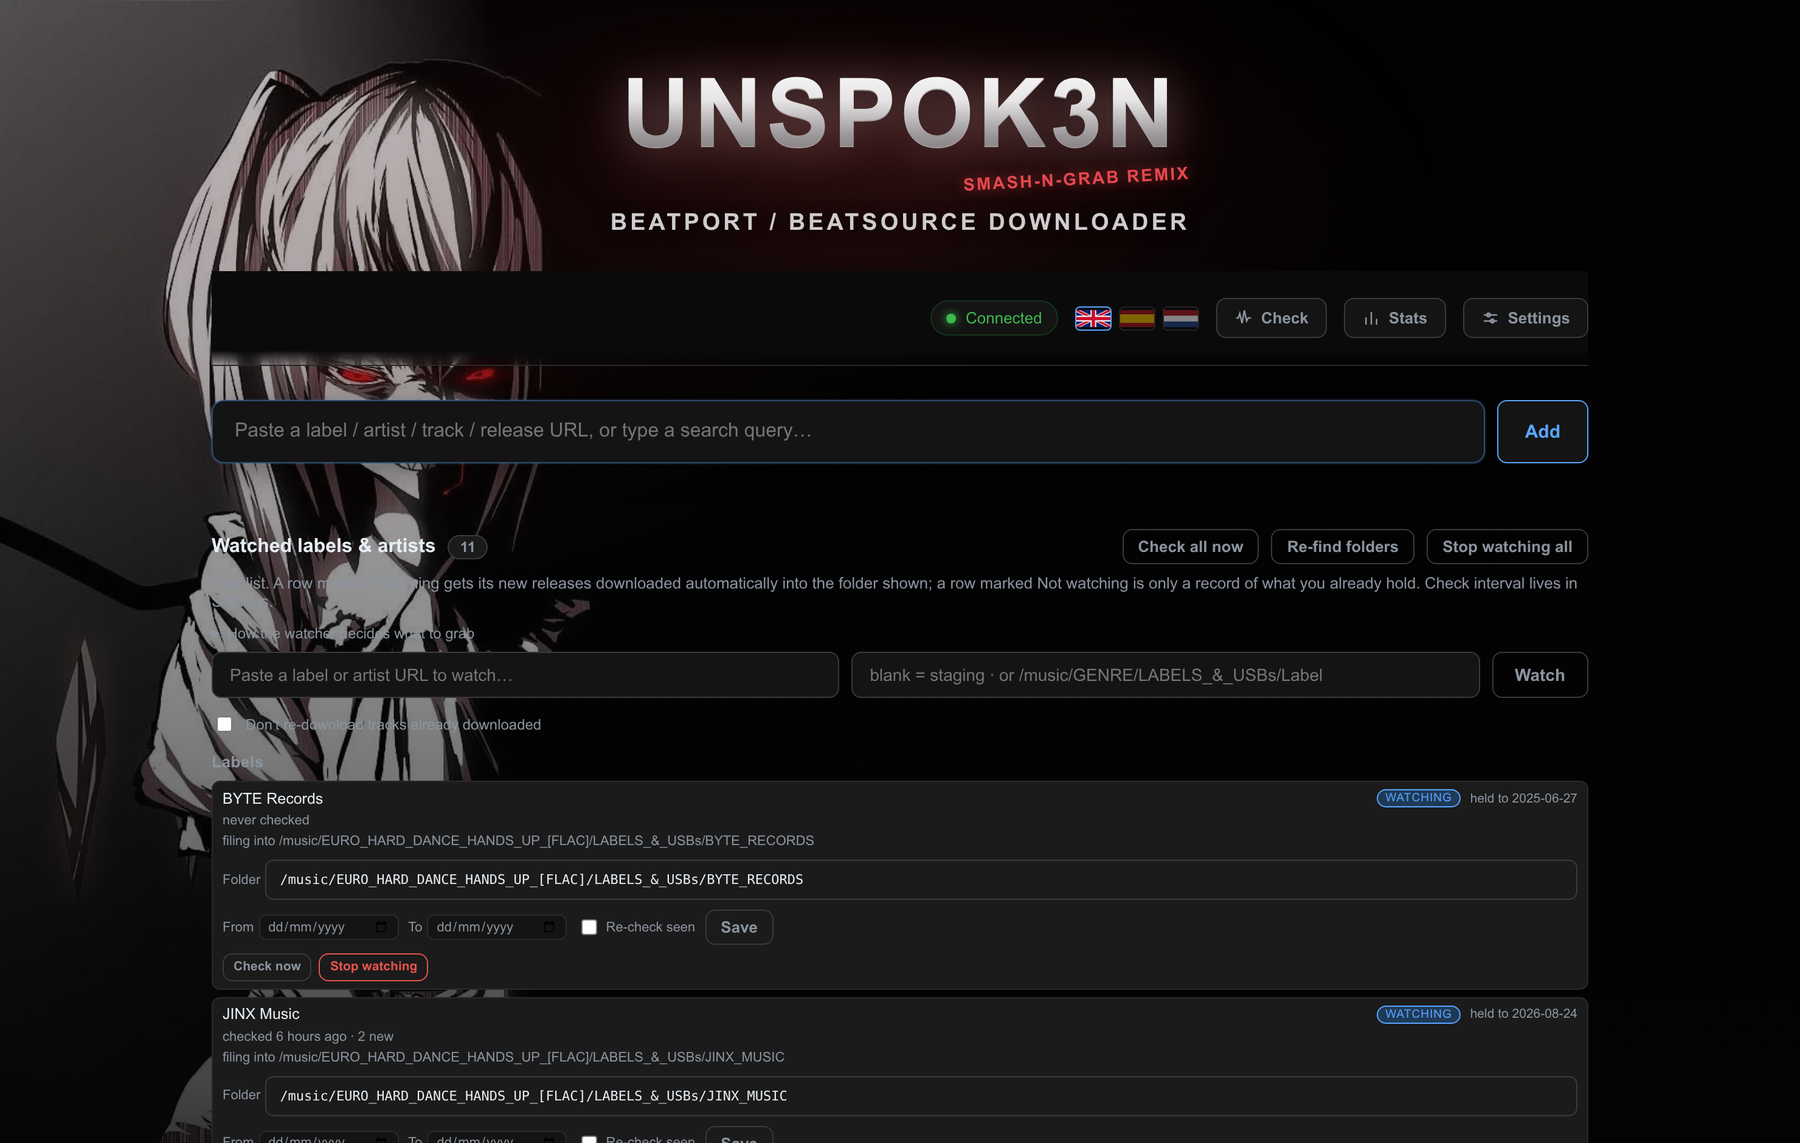
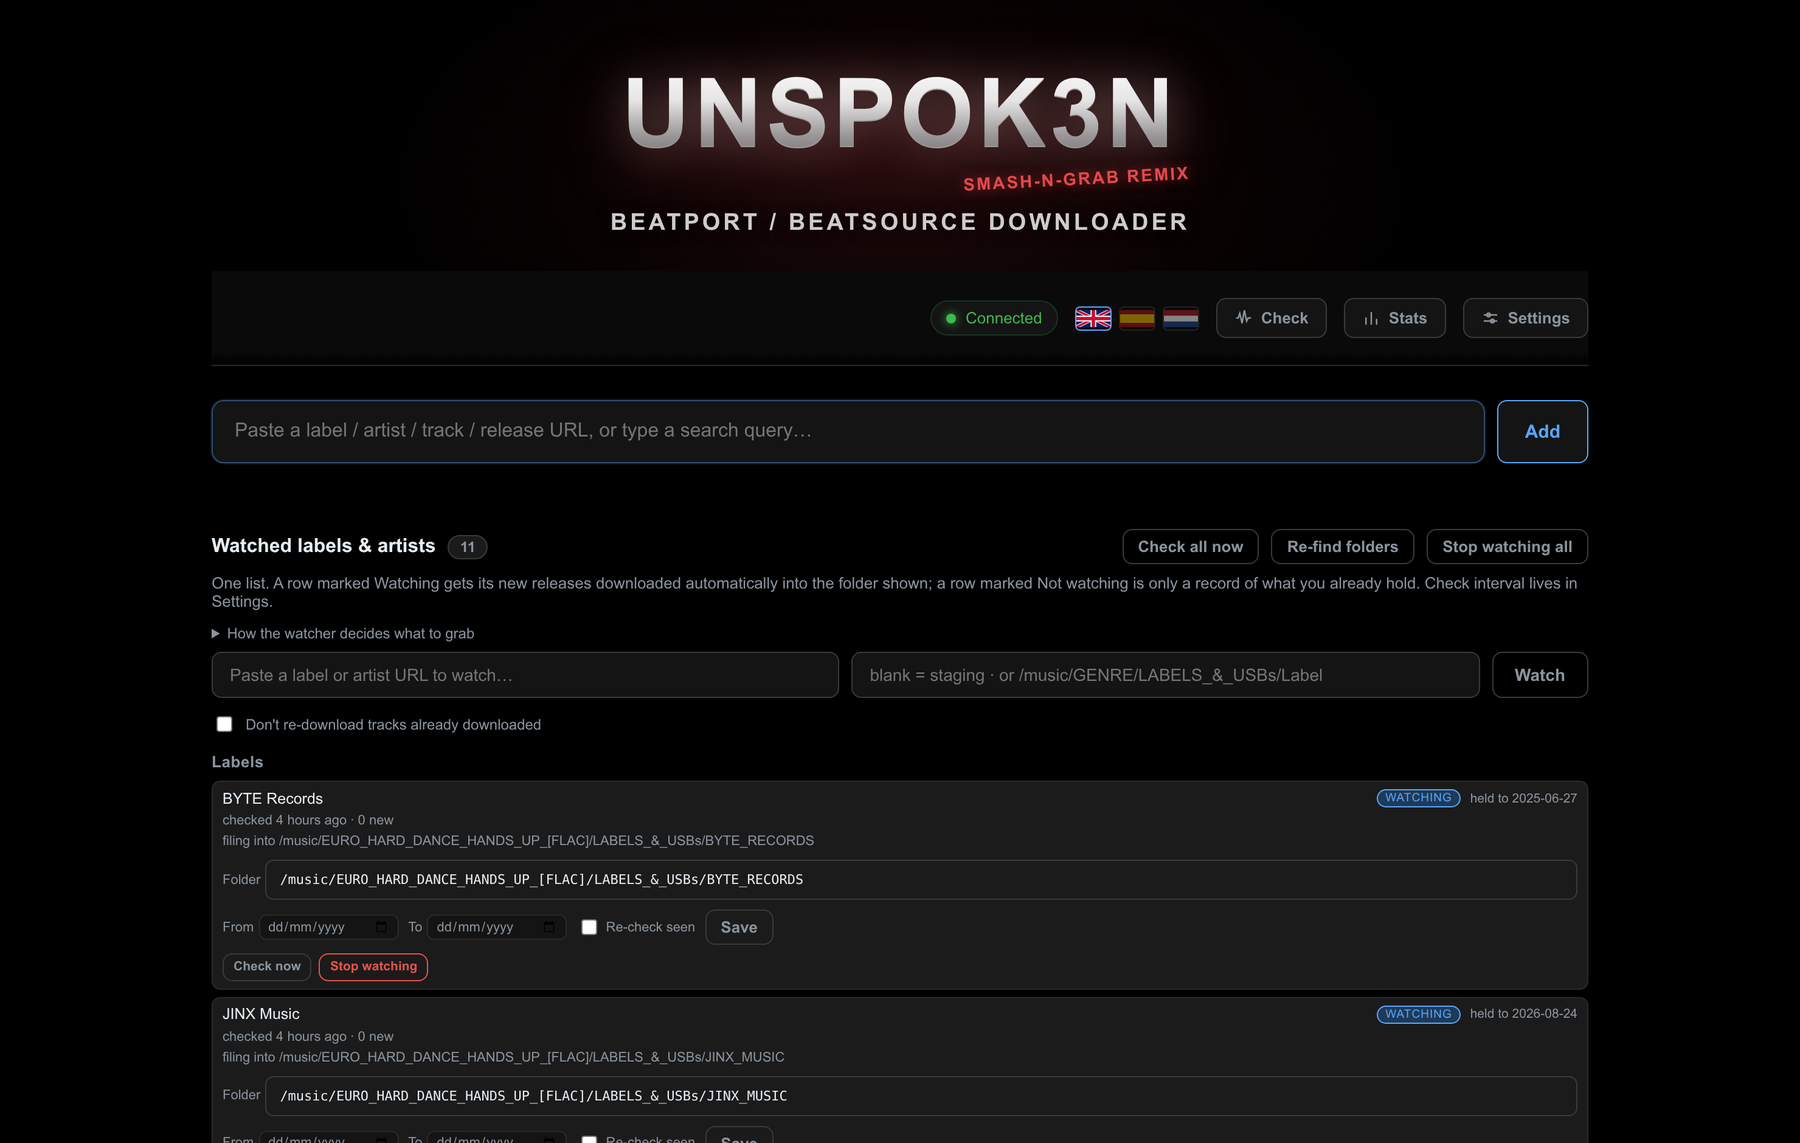
Plain black background
The wallpaper was a stacked body::before layer — anime artwork, a red radial
wash, a vignette and a bottom fade — and it cost legibility for decoration. Body
copy over the lit part of the figure sat well under a readable contrast ratio;
the watch-list blurb was the worst of it and is plainly unreadable in the
previous screenshots.

Flat black instead, so every surface colour in :root is measured against a known
background rather than against whatever the art happened to be doing behind it.
The hero keeps its own red glow, which is a separate element.

wallpaper-dark.webp stays in static/ rather than being deleted — putting the art
back is one CSS rule, and it is a nuisance to recover once gone.

Screenshots retaken.

diff --git a/bpdl/webui/static/style.css b/bpdl/webui/static/style.css
@@ -20,33 +20,28 @@
 
 * { box-sizing: border-box; }
 
-html { background: var(--bg); }
+html { background: #000; }
 
 body {
   margin: 0;
-  /* transparent so the fixed dark gradient layer below (body::before) shows. */
-  background: transparent;
+  background: #000;
   color: var(--text);
   font-family: var(--font);
   min-height: 100vh;
   overflow-x: hidden;
 }
 
-/* Dark anime wallpaper: monochrome figure on the left, near-black everywhere
-   else — the app column sits over the black. Light vignette + bottom fade keep
-   text readable without burying the art; a faint red wash echoes her eyes. */
-body::before {
-  content: "";
-  position: fixed;
-  inset: 0;
-  z-index: -1;
-  background:
-    radial-gradient(900px 500px at 18% 20%, rgba(229, 72, 77, 0.06) 0%, transparent 65%),
-    radial-gradient(120% 120% at 50% 40%, transparent 55%, rgba(0, 0, 0, 0.6) 100%),
-    linear-gradient(180deg, rgba(6, 6, 7, 0.25) 0%, rgba(6, 6, 7, 0.45) 55%, rgba(4, 4, 5, 0.78) 100%),
-    url("/static/wallpaper-dark.webp") left center / cover no-repeat #060607;
-  pointer-events: none;
-}
+/* Plain black background (owner's call, 2026-08-28).
+
+   This was a stacked body::before layer — anime artwork, a red radial wash, a
+   vignette and a bottom fade. It cost legibility for decoration: body copy over
+   the lit part of the figure sat well under a readable contrast ratio, which is
+   visible in the pre-2.12.1 README screenshots. Flat black instead, so every
+   surface colour in :root is measured against a known background rather than
+   against whatever the artwork happened to be doing behind it.
+
+   The wallpaper file is kept in static/ rather than deleted — putting the art
+   back is one rule, and it is a nuisance to recover once gone. */
 
 .hidden { display: none !important; }
 
@@ -66,9 +61,10 @@ body::before {
   background: radial-gradient(ellipse at center, rgba(229,72,77,0.13) 0%, rgba(150,40,45,0.06) 40%, transparent 70%);
   pointer-events: none;
 }
-/* Monochrome wordmark to match the wallpaper's ink-and-shadow art: heavy clean
-   type filled white-to-smoke, lit from above, with a low red glow bleeding up
-   from below — the same red as her eyes and the remix tag. */
+/* Monochrome wordmark: heavy clean type filled white-to-smoke, lit from above,
+   with a low red glow bleeding up from below matching the remix tag. The gradient
+   fill was drawn to sit over artwork; on flat black it reads as intended too, so
+   it stays. */
 #hero-logo {
   position: relative;
   margin: 0; text-align: center;
